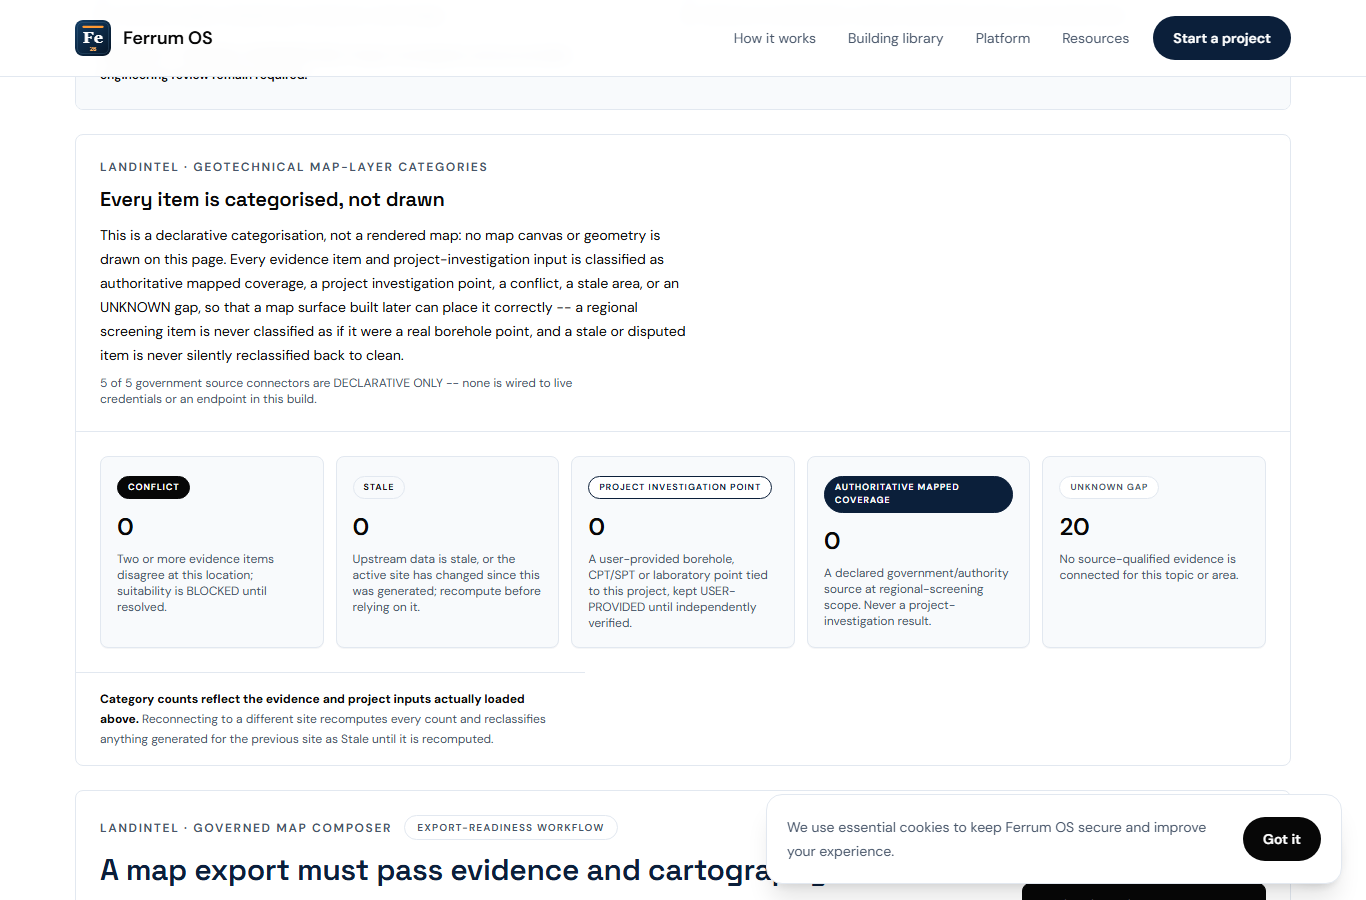
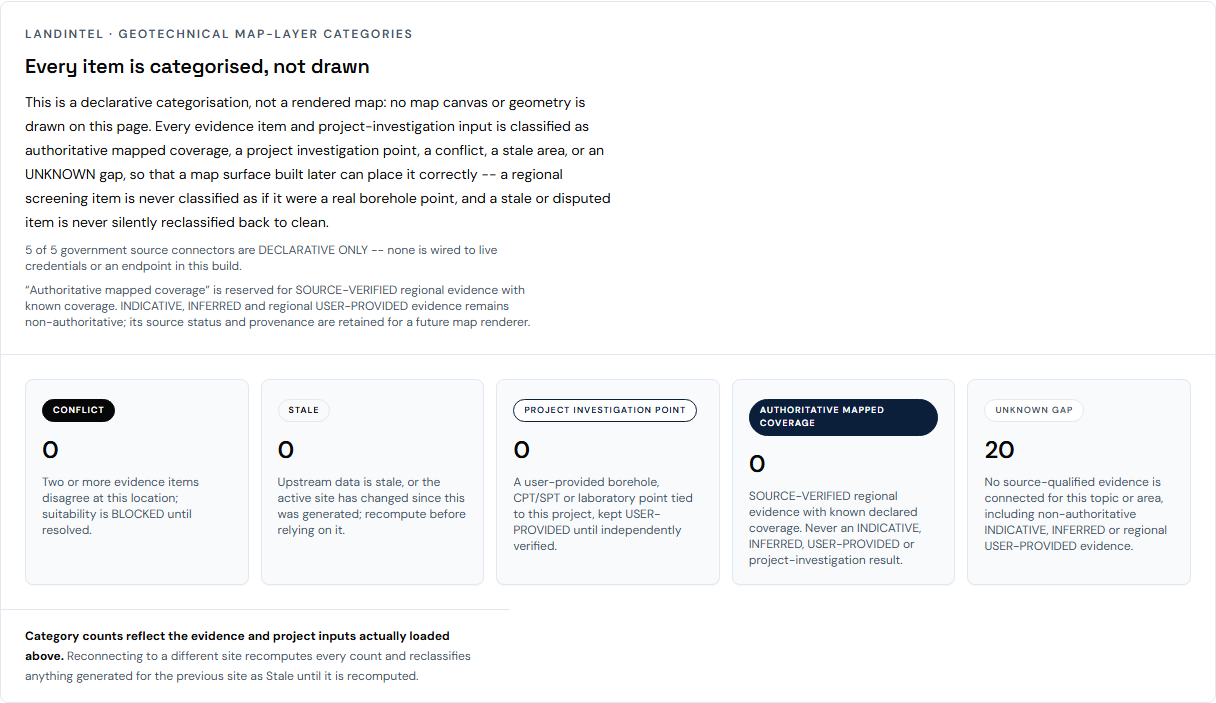
fix: preserve LandIntel geotechnical evidence authority [AI: MASON]

diff --git a/apps/web/lib/landintel/geotechnicalMapLayers.ts b/apps/web/lib/landintel/geotechnicalMapLayers.ts
@@ -13,6 +13,7 @@
 import type {
   CoordinateReference,
   GeotechnicalEvidence,
+  GeotechnicalEvidenceStatus,
   ProjectGeotechnicalInput,
   SpatialCoverage,
 } from './geotechnicalIntelligence'
@@ -31,6 +32,7 @@ export type MapLayerGeometry =
 
 export type MapLayerDisclosure = {
   source: string
+  evidenceStatus: GeotechnicalEvidenceStatus | 'USER-PROVIDED'
   licence: string
   observationDate: string | null
   publicationDate: string | null
@@ -53,20 +55,23 @@ export type GeotechnicalMapLayerFeature = {
 /**
  * One evidence item maps to exactly one category, most-severe first: a
  * CONFLICT or STALE status always wins the categorisation regardless of
- * scope, so a stale or disputed project point is never shown as if it were
- * still an authoritative regional layer.
+ * scope. AUTHORITATIVE_COVERAGE is deliberately narrower: it is reserved
+ * for SOURCE-VERIFIED regional evidence with known coverage. INDICATIVE,
+ * INFERRED and USER-PROVIDED regional evidence remain non-authoritative,
+ * so none can acquire an authority label merely because it has a region.
  */
 export function categorizeEvidence(item: GeotechnicalEvidence): MapLayerCategory {
   if (item.status === 'CONFLICT') return 'CONFLICT'
   if (item.status === 'STALE UPSTREAM DATA') return 'STALE_AREA'
   if (item.scope === 'PROJECT_INVESTIGATION') return 'PROJECT_INVESTIGATION_POINT'
   if (item.status === 'UNKNOWN' || item.coverage.kind === 'UNKNOWN') return 'UNKNOWN_GAP'
-  return 'AUTHORITATIVE_COVERAGE'
+  return item.status === 'SOURCE-VERIFIED' ? 'AUTHORITATIVE_COVERAGE' : 'UNKNOWN_GAP'
 }
 
 function disclosureFromEvidence(item: GeotechnicalEvidence): MapLayerDisclosure {
   return {
     source: item.lineage?.sourceUri ?? item.lineage?.sourceId ?? 'Not connected',
+    evidenceStatus: item.status,
     licence: 'See the government source registry entry for this topic before treating this as licensed for reuse.',
     observationDate: item.lineage?.observationDate ?? null,
     publicationDate: item.lineage?.publicationDate ?? null,
@@ -81,6 +86,7 @@ function disclosureFromEvidence(item: GeotechnicalEvidence): MapLayerDisclosure 
 function disclosureFromProjectInput(input: ProjectGeotechnicalInput, coordinates: CoordinateReference): MapLayerDisclosure {
   return {
     source: input.responsibleParty || 'Responsible party not recorded',
+    evidenceStatus: input.status,
     licence: 'Project-owned investigation data; not a public/redistributable source.',
     observationDate: input.issueDate,
     publicationDate: null,
@@ -143,11 +149,11 @@ export function withLiveStaleness(
 }
 
 export const mapLayerLegend: Record<MapLayerCategory, { label: string; description: string }> = {
-  AUTHORITATIVE_COVERAGE: { label: 'Authoritative mapped coverage', description: 'A declared government/authority source at regional-screening scope. Never a project-investigation result.' },
+  AUTHORITATIVE_COVERAGE: { label: 'Authoritative mapped coverage', description: 'SOURCE-VERIFIED regional evidence with known declared coverage. Never an INDICATIVE, INFERRED, USER-PROVIDED or project-investigation result.' },
   PROJECT_INVESTIGATION_POINT: { label: 'Project investigation point', description: 'A user-provided borehole, CPT/SPT or laboratory point tied to this project, kept USER-PROVIDED until independently verified.' },
   CONFLICT: { label: 'Conflict', description: 'Two or more evidence items disagree at this location; suitability is BLOCKED until resolved.' },
   STALE_AREA: { label: 'Stale', description: 'Upstream data is stale, or the active site has changed since this was generated; recompute before relying on it.' },
-  UNKNOWN_GAP: { label: 'UNKNOWN gap', description: 'No source-qualified evidence is connected for this topic or area.' },
+  UNKNOWN_GAP: { label: 'UNKNOWN gap', description: 'No source-qualified evidence is connected for this topic or area, including non-authoritative INDICATIVE, INFERRED or regional USER-PROVIDED evidence.' },
 }
 
 export const mapLayerCategoryOrder: MapLayerCategory[] = [

diff --git a/apps/web/components/landintel/GeotechnicalMapLayerLegend.test.tsx b/apps/web/components/landintel/GeotechnicalMapLayerLegend.test.tsx
@@ -40,6 +40,18 @@ describe('GeotechnicalMapLayerLegend', () => {
     expect(screen.getByText(/DECLARATIVE ONLY -- none is wired to live credentials/)).toBeTruthy()
   })
 
+  it('states the authority boundary visibly and preserves non-authoritative evidence as a gap', () => {
+    const evidence: GeotechnicalEvidence[] = [
+      { id: 'indicative-a', topic: 'regional-geology-lithology', label: 'Indicative geology', value: 'Alluvium', unit: null, status: 'INDICATIVE', method: 'MODELLED', scope: 'REGIONAL_SCREENING', confidence: 'MEDIUM', coverage: { kind: 'REGION', label: 'Karnataka', coverageGaps: [] }, lineage: null, limitations: [], validUntil: null },
+      { id: 'inferred-a', topic: 'groundwater', label: 'Inferred groundwater', value: null, unit: null, status: 'INFERRED', method: 'INFERRED', scope: 'REGIONAL_SCREENING', confidence: 'LOW', coverage: { kind: 'REGION', label: 'Karnataka', coverageGaps: [] }, lineage: null, limitations: [], validUntil: null },
+      { id: 'provided-a', topic: 'flood-drainage', label: 'Provided flood note', value: null, unit: null, status: 'USER-PROVIDED', method: 'OBSERVED', scope: 'REGIONAL_SCREENING', confidence: 'LOW', coverage: { kind: 'REGION', label: 'Karnataka', coverageGaps: [] }, lineage: null, limitations: [], validUntil: null },
+    ]
+    render(<GeotechnicalMapLayerLegend assessment={assessGeotechnicalEvidence(evidence)} />)
+    expect(screen.getByText(/reserved for SOURCE-VERIFIED regional evidence with known coverage/)).toBeTruthy()
+    expect(screen.getByText('Authoritative mapped coverage').parentElement!.querySelector('[data-map-layer-count]')!.textContent).toBe('0')
+    expect(screen.getByText('UNKNOWN gap').parentElement!.querySelector('[data-map-layer-count]')!.textContent).toBe('3')
+  })
+
   it('never claims to render map geometry -- describes a declarative categorisation only', () => {
     render(<GeotechnicalMapLayerLegend />)
     expect(screen.getByText(/declarative categorisation, not a rendered map/)).toBeTruthy()

diff --git a/apps/web/lib/landintel/geotechnicalMapLayers.test.ts b/apps/web/lib/landintel/geotechnicalMapLayers.test.ts
@@ -54,6 +54,22 @@ describe('geotechnical map-layer categorisation', () => {
   it('routes verified regional evidence to AUTHORITATIVE_COVERAGE', () => {
     expect(categorizeEvidence(evidence({ status: 'SOURCE-VERIFIED', scope: 'REGIONAL_SCREENING', coverage: { kind: 'REGION', label: 'Karnataka geology index', coverageGaps: [] } }))).toBe('AUTHORITATIVE_COVERAGE')
   })
+
+  it.each([
+    ['SOURCE-VERIFIED', 'AUTHORITATIVE_COVERAGE'],
+    ['USER-PROVIDED', 'UNKNOWN_GAP'],
+    ['INDICATIVE', 'UNKNOWN_GAP'],
+    ['INFERRED', 'UNKNOWN_GAP'],
+    ['UNKNOWN', 'UNKNOWN_GAP'],
+    ['STALE UPSTREAM DATA', 'STALE_AREA'],
+    ['CONFLICT', 'CONFLICT'],
+  ] as const)('classifies regional %s evidence as %s without granting unsupported authority', (status, category) => {
+    expect(categorizeEvidence(evidence({
+      status,
+      scope: 'REGIONAL_SCREENING',
+      coverage: { kind: 'REGION', label: 'Karnataka geology index', coverageGaps: [] },
+    }))).toBe(category)
+  })
 })
 
 describe('buildGeotechnicalMapLayers', () => {
@@ -70,6 +86,8 @@ describe('buildGeotechnicalMapLayers', () => {
     expect(point.category).toBe('PROJECT_INVESTIGATION_POINT')
     expect(point.geometry).toEqual({ kind: 'PROJECT_POINT', coordinates: projectInput({}).coordinates })
     expect(point.disclosure.jurisdiction).toBe('EPSG:4326')
+    expect(regional.disclosure.evidenceStatus).toBe('SOURCE-VERIFIED')
+    expect(point.disclosure.evidenceStatus).toBe('USER-PROVIDED')
   })
 
   it('omits project inputs with no coordinates rather than inventing a location', () => {

diff --git a/apps/web/components/landintel/GeotechnicalMapLayerLegend.tsx b/apps/web/components/landintel/GeotechnicalMapLayerLegend.tsx
@@ -75,6 +75,9 @@ export default function GeotechnicalMapLayerLegend({
         <p className="mt-2 text-xs text-relume-muted" data-geotechnical-map-layer-connector-status>
           {declarativeCount} of {governmentGeotechnicalSources.length} government source connectors are DECLARATIVE ONLY -- none is wired to live credentials or an endpoint in this build.
         </p>
+        <p className="mt-2 text-xs text-relume-muted" data-geotechnical-map-layer-authority-boundary>
+          “Authoritative mapped coverage” is reserved for SOURCE-VERIFIED regional evidence with known coverage. INDICATIVE, INFERRED and regional USER-PROVIDED evidence remains non-authoritative; its source status and provenance are retained for a future map renderer.
+        </p>
       </div>
 
       <div className="grid gap-3 p-5 sm:grid-cols-2 sm:p-6 lg:grid-cols-5" aria-label="Geotechnical map-layer categories">
